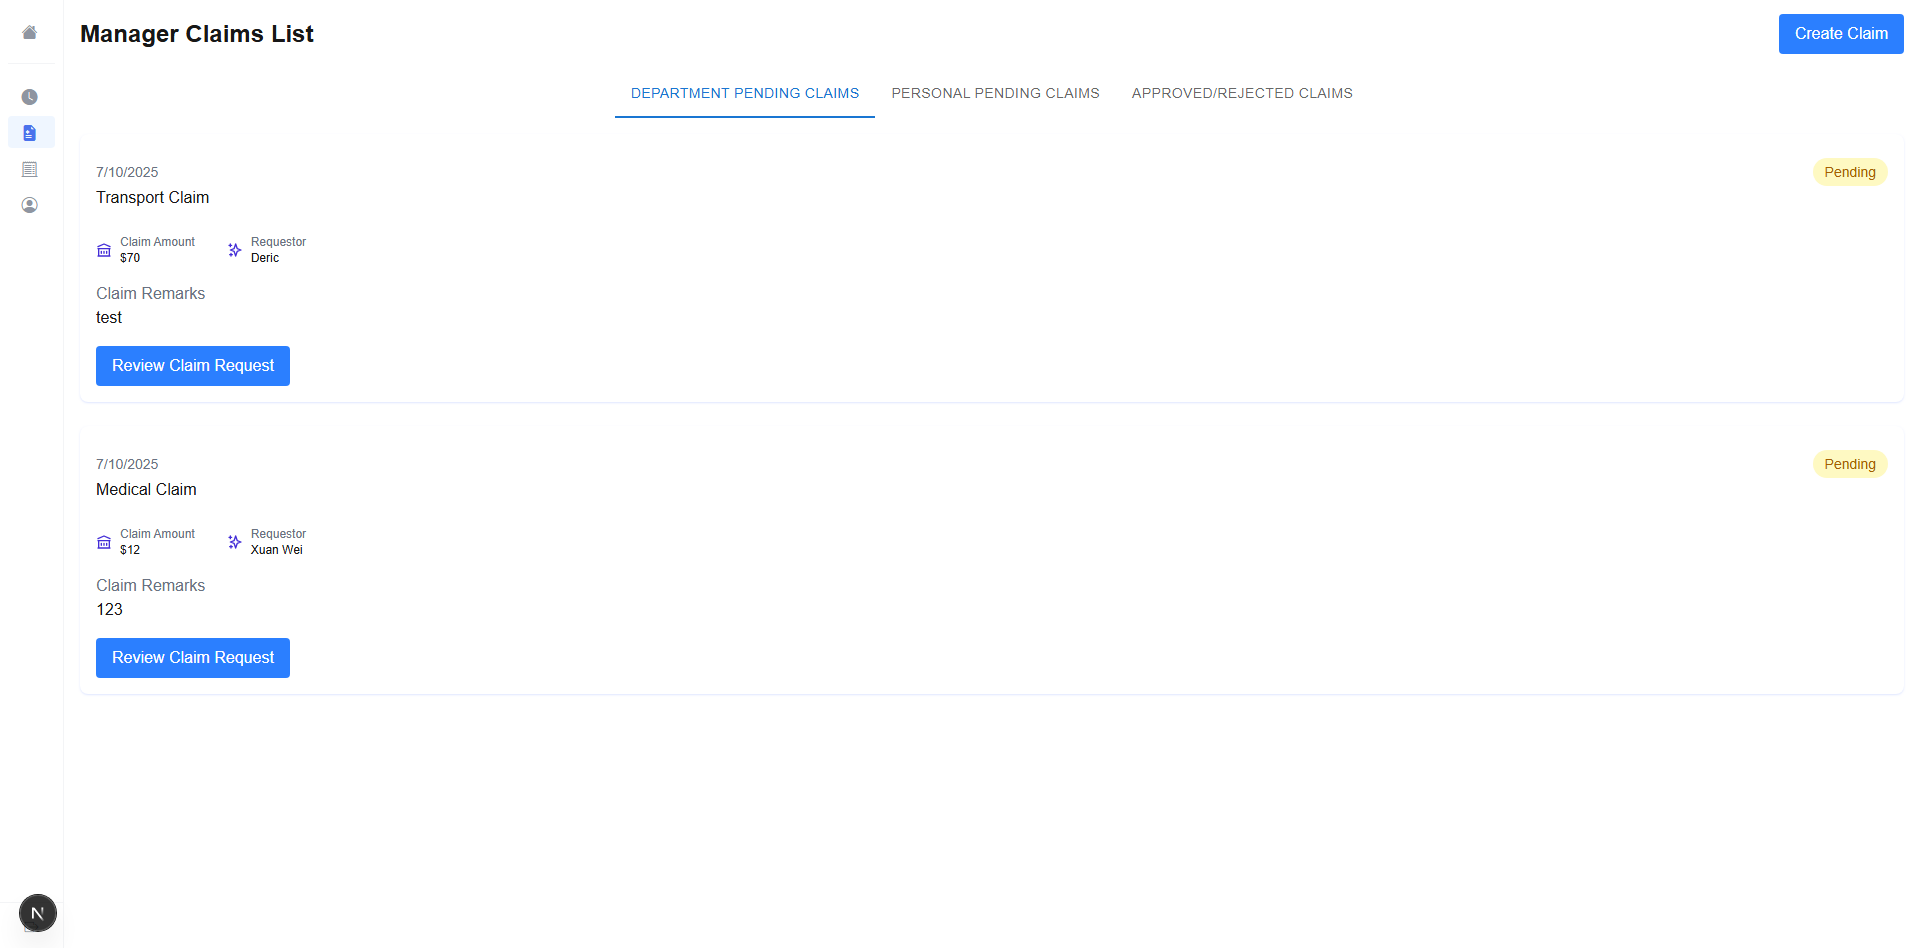
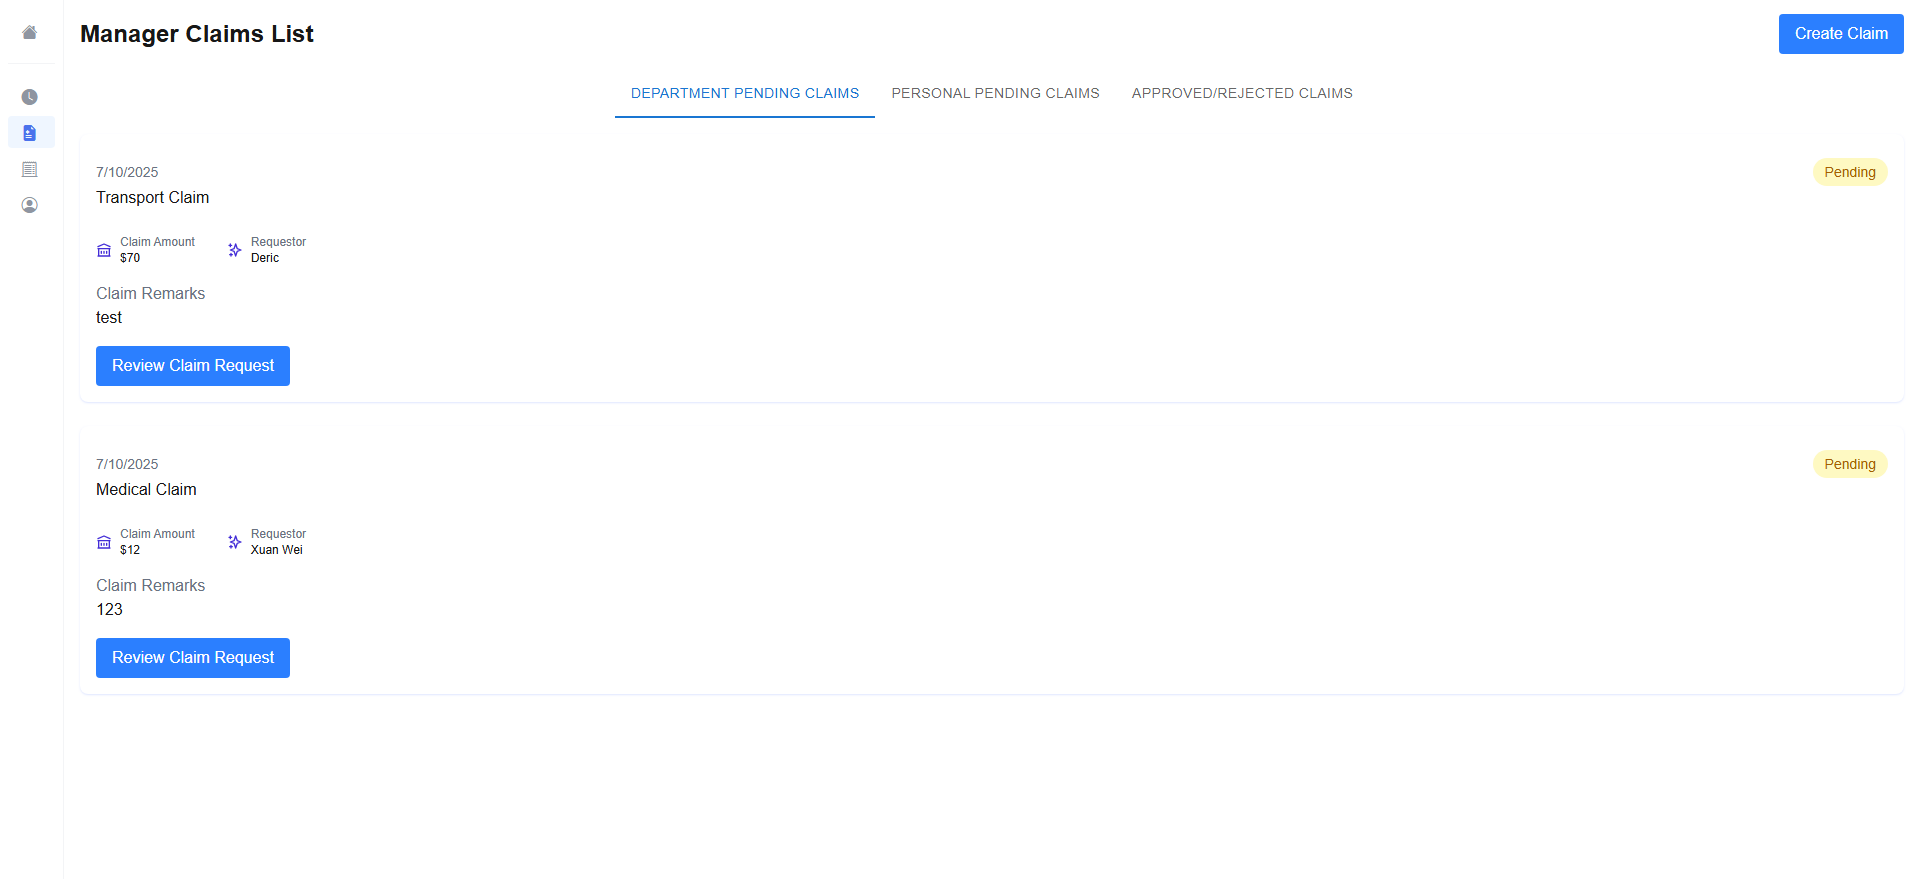
added links, minor clean ups

diff --git a/app/projects/bus-route-optimizer/page.tsx b/app/projects/bus-route-optimizer/page.tsx
@@ -12,7 +12,7 @@ function BusRouteOptimizer() {
       
       <section id="project-info" className="on-load-animation-500 flex justify-center">
         <ProjectInfo
-        contributions={["Route and Map API Integration", "Grouping Algorithm", "Trip Distance Calculation"]}
+        contributions={["Route and Map API Integration", "Drop-off Point Grouping Algorithm", "Trip Distance Calculation"]}
         duration="Apr 2024 – July 2024"
         brief="Running a travel bus company entails significant operational costs
         due to fuel, maintenance, and Electronic Road Pricing (ERP) tolls. This project aims to
@@ -24,11 +24,12 @@ function BusRouteOptimizer() {
         singleImages={[        
           {
           image: "/images/bus-route-optimizer/bus-route-application.png",
-          caption: "Main Application View",
+          caption: "Main Application View"
           },
           {
           image: "/images/bus-route-optimizer/bus-route-drop-off-pnts.png",
-          caption: "Hotel Grouping (Drop-off point at Green Marker for all passangers staying at hotels marked by Blue Marker)",
+          caption: "Hotel Grouping (Drop-off point at Green Marker for all passengers staying at hotels marked by Blue Marker)",
+          description: "Drop-off points are indicated as Green Markers, all nearby passengers staying at hotels marked by the Blue Marker will drop off at the nearest Green Marker. The groupings take into consideration walking distance from each drop off point, rather than the driving distance so that passengers are not negatively affected. This reduces fuel costs efficiently as drivers need not head to every single hotel location and passenger satisfaction is not sacrificed."
           },
         ]}
         projectLink = ""

diff --git a/app/about/page.tsx b/app/about/page.tsx
@@ -31,17 +31,20 @@ function About() {
                 <Link className="underline" href="mailto:kellyjw2002@gmail.com">kellyjw2002@gmail.com</Link>
 
               </div>
-              {/* <div className="mt-5">
+              <div className="mt-5">
                 <h2 className="text-md font-black pb-1">LINKS</h2>
                 <div className="flex gap-3">
-                  <Link href="https://www.linkedin.com/in/kelly-teo" target="_blank">
-                  <FontAwesomeIcon icon={faLinkedin} className="w-10"/>
-                  </Link>
+                  
                   <Link href="https://github.com/kellyjw030" target="_blank">
                   <FontAwesomeIcon icon={faGithub} className="w-10"/>
                   </Link>
+
+                  <Link href="https://www.linkedin.com/in/kelly-teo" target="_blank">
+                  <FontAwesomeIcon icon={faLinkedin} className="w-10"/>
+                  </Link>
+
                 </div>
-              </div> */}
+              </div>
             </div>
           </div>
         </div>

diff --git a/app/projects/page.tsx b/app/projects/page.tsx
@@ -52,10 +52,12 @@ function Work() {
         <ProjectCard 
         projectName = "Steganography Application"
         pageLink="/projects/steganography"
-        projectDesc="A tool to hide data within other image, video or audio files. Supports a high variety of payload formats, embedding patterns, and optional encryption with a password."
+        projectDesc="A tool to hide data within other image, video or audio files. Supports a high variety of payload formats, embedding patterns, and optional encryption."
         thumbnail="/images/steganography-thumbnail.png"
         tech={['Python', 'OpenCV', 'Tkinter']}
         />
+
+
 
       </div>
 

diff --git a/app/projects/labcomply/page.tsx b/app/projects/labcomply/page.tsx
@@ -16,8 +16,8 @@ function LabComply() {
           "Detection Pipeline (Human to food/ drink association)",
           "Integration of surveillance equipment to the system",
           "Integrating host machine GPUs with Docker containers",
-          "Some frontend and backend dev for the dashboard",
-          "Technical documentation, diagrams, and user manuals"
+          "Technical documentation, diagrams, and user manuals",
+          "Dashboard",
         ]}
         duration="May 2025 – Nov 2025"
         brief="Bringing food and drinks into these spaces heightens the chances of spillage and the presence
